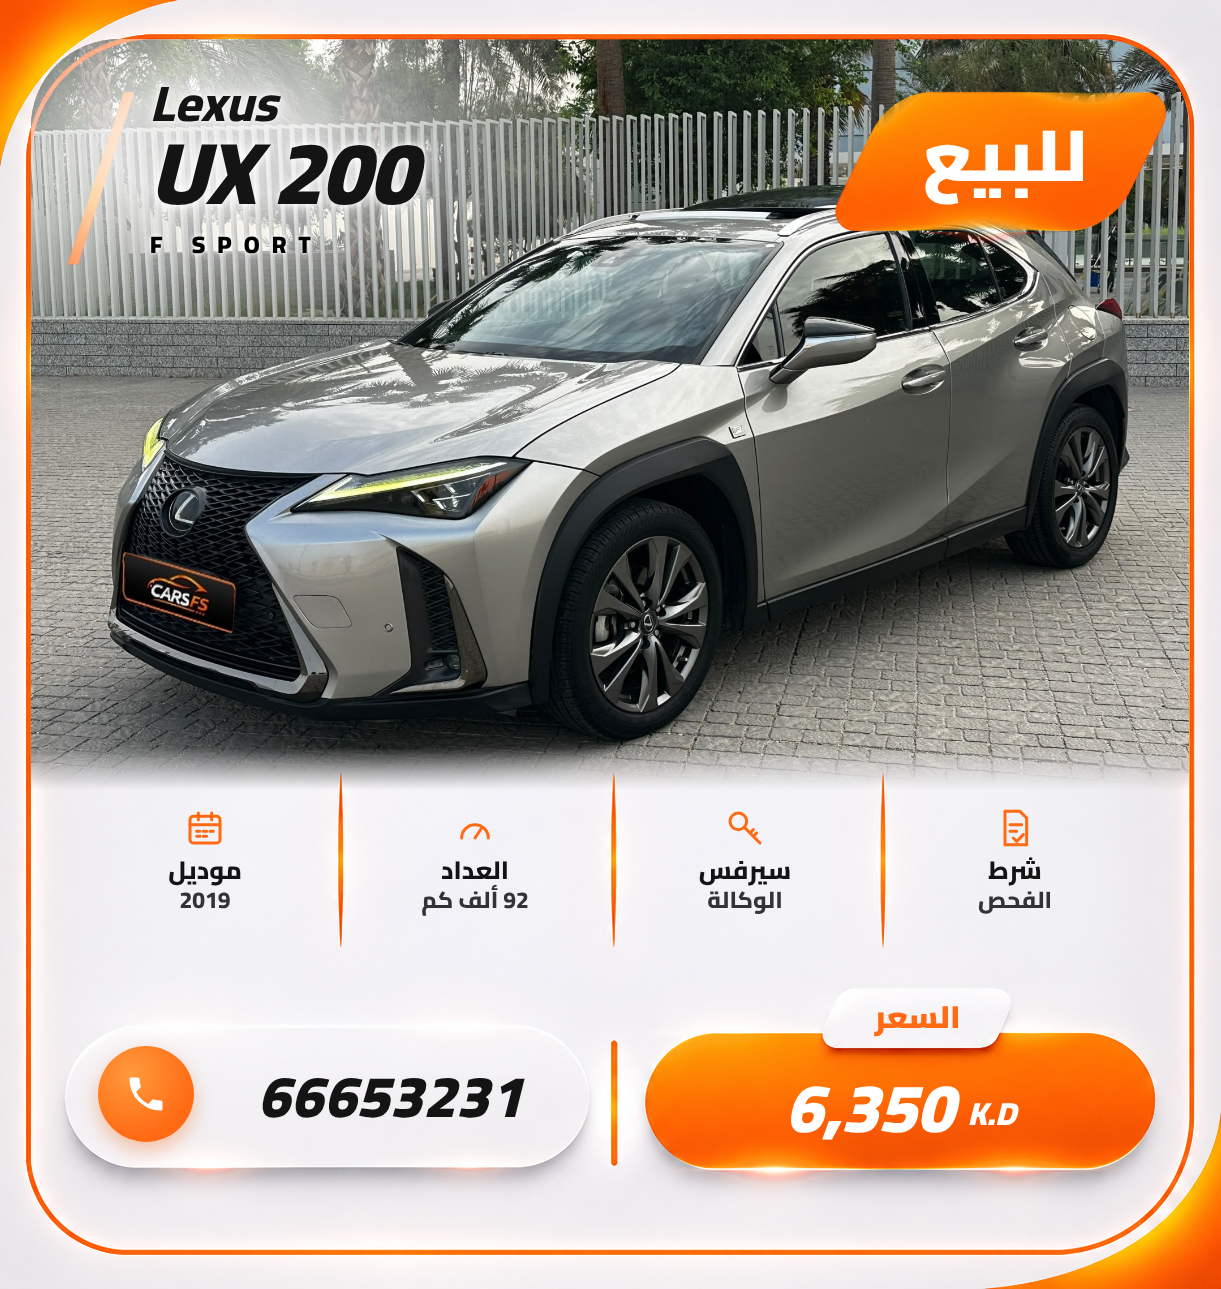
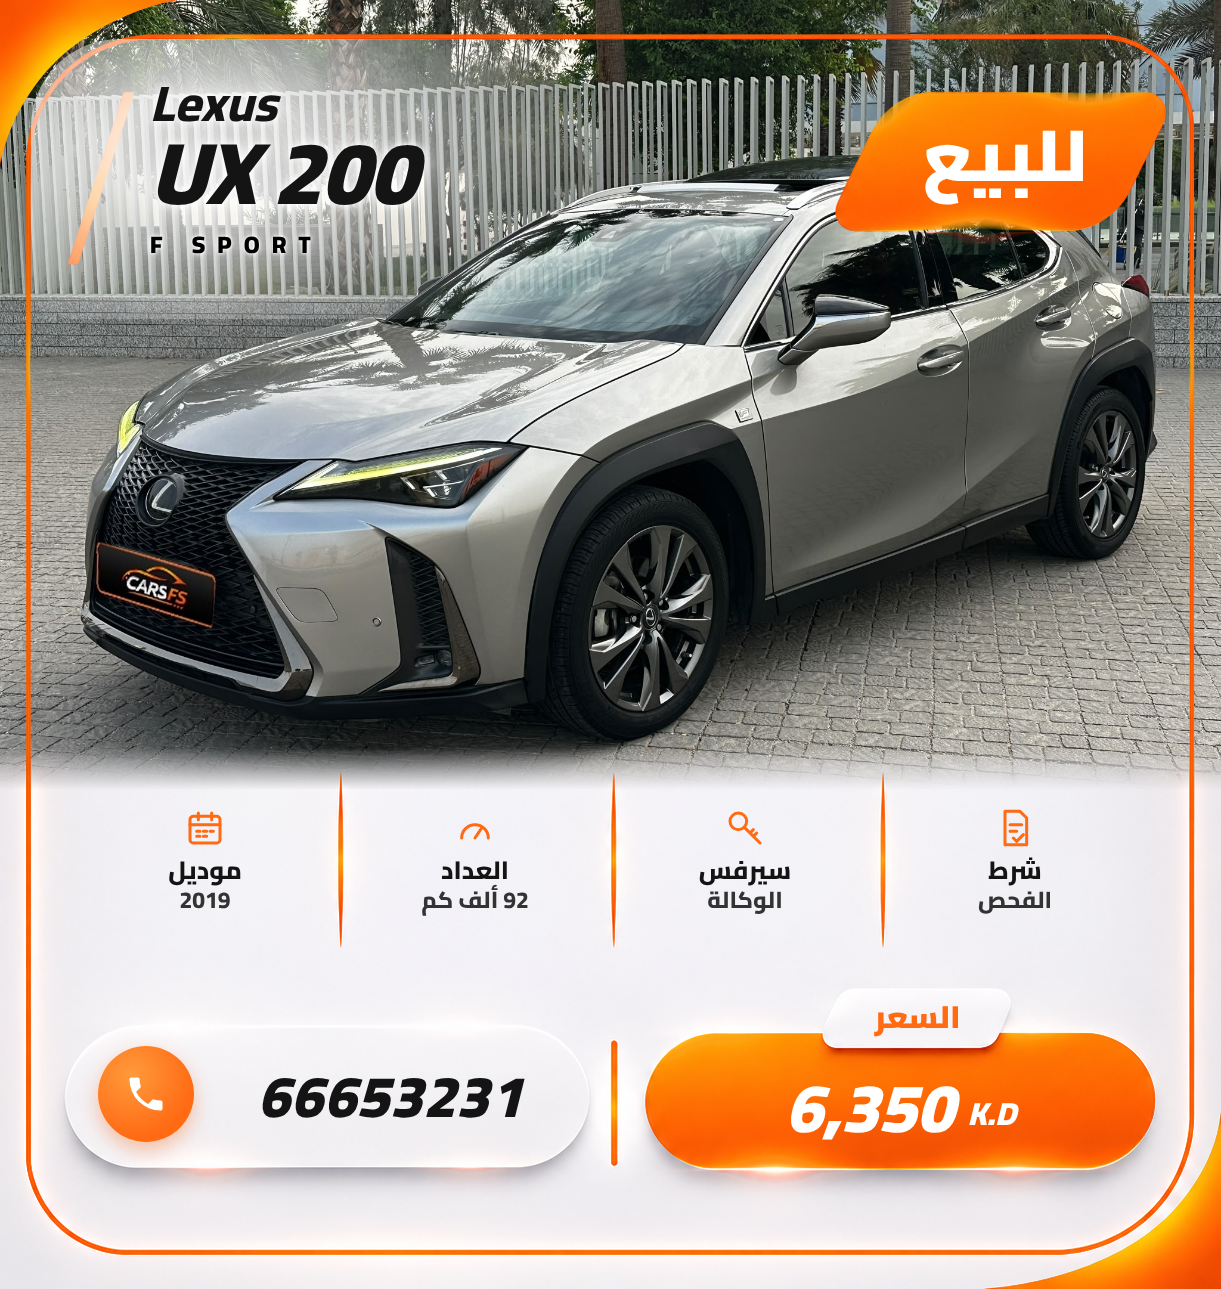
Extend the car photo past the frame to the top and side edges of the canvas
Claude-Session: https://claude.ai/code/session_01KnexkHxQxKDZgeTo91zvvo

Changed region(s): [[0.0, 0.0, 1.0, 0.6206]]

diff --git a/template/post-v3.html b/template/post-v3.html
@@ -16,7 +16,7 @@
 
   /* photo: full background inside the orange frame, sharp to the tyres, short fade only on the ground below */
   /* layers: background -> car photo over the whole frame -> frosted template for the info area -> orange shapes -> text */
-  .clip { position: absolute; inset: 0; clip-path: inset(39px 32px 40px 31px round 88px); }
+  .clip { position: absolute; inset: 0; } /* photo runs past the frame to the canvas edges; the frost restores the template below */
   .clip img { position: absolute; display: block; }
   .frost { position: absolute; inset: 0; backdrop-filter: blur(var(--blur, 6px));
     -webkit-mask-image: linear-gradient(to bottom, transparent var(--frostA), #000 var(--frostB)); }
